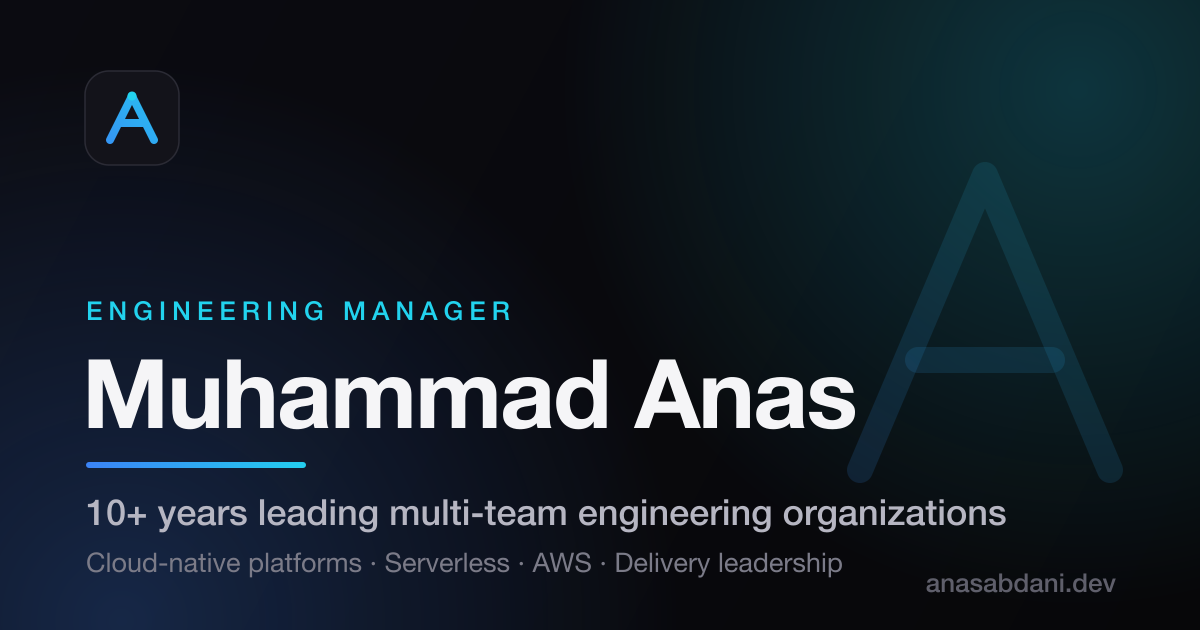
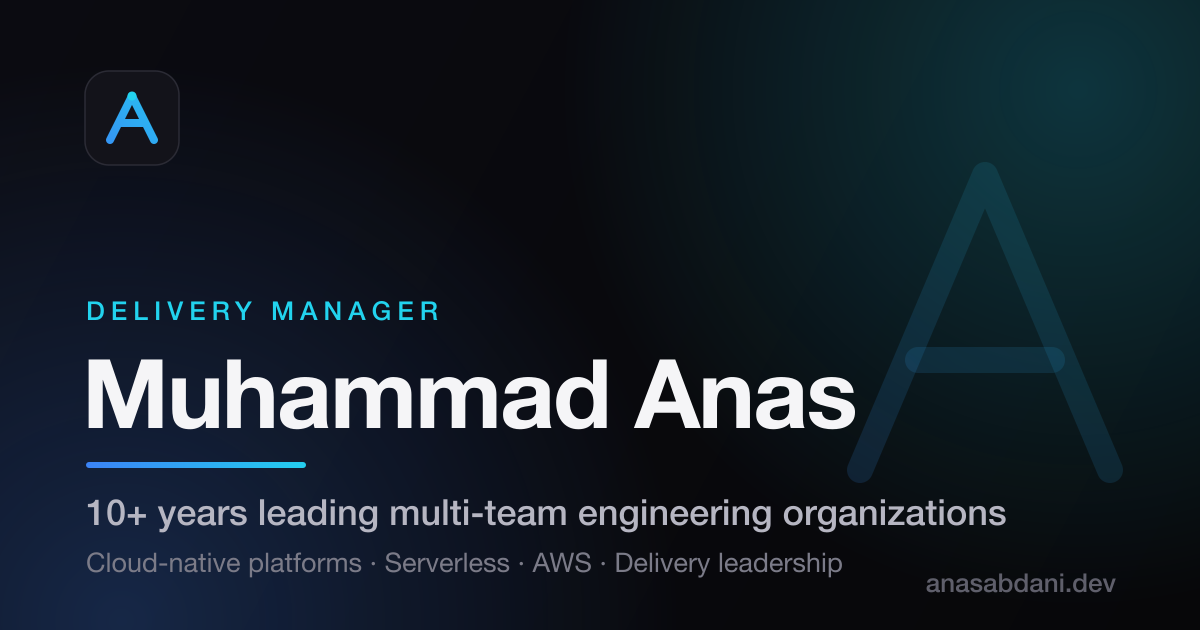
feat: reposition as Delivery Manager and update phone number
Update headline role, meta tags, structured data, hero copy and OG image
to Delivery Manager. Employer job titles in the timeline and case studies
stay as they were. Phone changes to +92 312 8411494.

Changed region(s): [[0.0617, 0.4524, 0.4317, 0.5127]]

diff --git a/index.html b/index.html
@@ -31,10 +31,10 @@
       </style>
     </noscript>
 
-    <title>Muhammad Anas | Engineering Manager and Fractional CTO</title>
+    <title>Muhammad Anas | Delivery Manager and Fractional CTO</title>
     <meta
       name="description"
-      content="Muhammad Anas is an Engineering Manager and Fractional CTO with 10+ years building cloud-native SaaS platforms and leading remote engineering teams."
+      content="Muhammad Anas is a Delivery Manager and Fractional CTO with 10+ years building cloud-native SaaS platforms and leading remote engineering teams."
     />
     <meta name="author" content="Muhammad Anas" />
     <!-- Vercel 307-redirects the apex to www, so www is the canonical host. -->
@@ -43,22 +43,22 @@
     <!-- Open Graph -->
     <meta property="og:type" content="website" />
     <meta property="og:url" content="https://www.anasabdani.dev/" />
-    <meta property="og:title" content="Muhammad Anas | Engineering Manager and Fractional CTO" />
+    <meta property="og:title" content="Muhammad Anas | Delivery Manager and Fractional CTO" />
     <meta
       property="og:description"
-      content="Muhammad Anas is an Engineering Manager and Fractional CTO with 10+ years building cloud-native SaaS platforms and leading remote engineering teams."
+      content="Muhammad Anas is a Delivery Manager and Fractional CTO with 10+ years building cloud-native SaaS platforms and leading remote engineering teams."
     />
     <meta property="og:image" content="https://www.anasabdani.dev/og.png" />
     <meta property="og:image:width" content="1200" />
     <meta property="og:image:height" content="630" />
-    <meta property="og:image:alt" content="Muhammad Anas | Engineering Manager and Fractional CTO" />
+    <meta property="og:image:alt" content="Muhammad Anas | Delivery Manager and Fractional CTO" />
 
     <!-- Twitter -->
     <meta name="twitter:card" content="summary_large_image" />
-    <meta name="twitter:title" content="Muhammad Anas | Engineering Manager and Fractional CTO" />
+    <meta name="twitter:title" content="Muhammad Anas | Delivery Manager and Fractional CTO" />
     <meta
       name="twitter:description"
-      content="Muhammad Anas is an Engineering Manager and Fractional CTO with 10+ years building cloud-native SaaS platforms and leading remote engineering teams."
+      content="Muhammad Anas is a Delivery Manager and Fractional CTO with 10+ years building cloud-native SaaS platforms and leading remote engineering teams."
     />
     <meta name="twitter:image" content="https://www.anasabdani.dev/og.png" />
 
@@ -76,14 +76,14 @@
       {
         "@context": "https://schema.org",
         "@type": "ProfilePage",
-        "dateModified": "2026-09-23T00:00:00+05:00",
+        "dateModified": "2026-10-30T00:00:00+05:00",
         "mainEntity": {
           "@type": "Person",
           "@id": "https://www.anasabdani.dev/#person",
           "name": "Muhammad Anas",
           "alternateName": "Anas Abdani",
-          "jobTitle": "Engineering Manager",
-          "description": "Muhammad Anas is an Engineering Manager and Fractional CTO with 10+ years leading multi-team engineering organizations and shipping scalable, cloud-native SaaS platforms. He leads multiple Agile teams at Flipdish, a restaurant ordering and management SaaS platform, and serves as fractional CTO at Devsy. He is available for fractional engineering leadership, AI-assisted delivery consulting, and advisory calls, working remotely with US, UK and EU time-zone overlap.",
+          "jobTitle": "Delivery Manager",
+          "description": "Muhammad Anas is a Delivery Manager and Fractional CTO with 10+ years leading multi-team engineering organizations and shipping scalable, cloud-native SaaS platforms. He leads multiple Agile teams at Flipdish, a restaurant ordering and management SaaS platform, and serves as fractional CTO at Devsy. He is available for fractional engineering leadership, AI-assisted delivery consulting, and advisory calls, working remotely with US, UK and EU time-zone overlap.",
           "url": "https://www.anasabdani.dev/",
           "image": "https://www.anasabdani.dev/anas.jpg",
           "email": "mailto:anas_abdani@hotmail.com",
@@ -95,9 +95,9 @@
           "hasOccupation": [
             {
               "@type": "Occupation",
-              "name": "Engineering Manager",
-              "description": "Leads multiple Agile software engineering teams at Flipdish, owning delivery, architecture, and incident management for a restaurant ordering and management SaaS platform.",
-              "skills": "Engineering leadership, Agile delivery, incident management, cloud-native architecture on AWS, TypeScript, Node.js, React"
+              "name": "Delivery Manager",
+              "description": "Owns end-to-end delivery across multiple Agile software teams at Flipdish, from sprint planning and release execution to stakeholder alignment and incident management, for a restaurant ordering and management SaaS platform.",
+              "skills": "Delivery management, Agile delivery, release planning, stakeholder management, incident management, cloud-native architecture on AWS, TypeScript, Node.js, React"
             },
             {
               "@type": "Occupation",

diff --git a/src/data/content.ts b/src/data/content.ts
@@ -100,15 +100,15 @@ export interface NavLink {
 export const profile: Profile = {
   name: 'Muhammad Anas',
   shortName: 'Muhammad Anas',
-  role: 'Engineering Manager',
+  role: 'Delivery Manager',
   location: 'Karachi, Pakistan',
   tagline:
-    'Engineering Manager and fractional CTO with 10+ years leading multi-team organizations and shipping scalable, cloud-native platforms.',
+    'Delivery Manager and fractional CTO with 10+ years leading multi-team organizations and shipping scalable, cloud-native platforms.',
   intro:
     'I’m Muhammad Anas. I lead engineering teams that turn ambitious product bets into reliable, production-grade systems. That means owning delivery, architecture, and the people who make it happen.',
   email: 'anas_abdani@hotmail.com',
-  phone: '+966 57 220 1977',
-  phoneHref: '+966572201977',
+  phone: '+92 312 8411494',
+  phoneHref: '+923128411494',
   linkedin: 'https://www.linkedin.com/in/anas-abdani',
   linkedinLabel: 'linkedin.com/in/anas-abdani',
   linkedinRecommendations:
@@ -128,9 +128,9 @@ export const stats: Stat[] = [
 ];
 
 export const about: About = {
-  heading: 'Engineering leadership across delivery, architecture, and people',
+  heading: 'Delivery leadership across teams, architecture, and people',
   paragraphs: [
-    'I’m Muhammad Anas, an Engineering Manager based in Karachi, Pakistan, working remotely with teams across US, UK and EU time zones. Over the last decade I’ve grown from a hands-on engineer into a leader who owns the full delivery lifecycle, from sprint planning and backlog prioritization to architectural direction and production reliability.',
+    'I’m Muhammad Anas, a Delivery Manager based in Karachi, Pakistan, working remotely with teams across US, UK and EU time zones. Over the last decade I’ve grown from a hands-on engineer into a leader who owns the full delivery lifecycle, from sprint planning and backlog prioritization to architectural direction and production reliability.',
     'Today I lead multiple Agile teams at Flipdish, a restaurant ordering and management SaaS platform. I report directly to C-level leadership and keep engineering execution lined up with business priorities. I care a lot about observability, incident management, and building systems that stay reliable as they scale.',
     'My toolkit spans Node.js, TypeScript, React and React Native, serverless and microservices on AWS, and modern CI/CD. The part I spend most of my energy on, though, is creating the conditions where teams ship confidently and grow.',
   ],

diff --git a/src/components/Hero.tsx b/src/components/Hero.tsx
@@ -494,7 +494,7 @@ export default function Hero() {
             style={reduce ? undefined : { y: contentY }}
           >
             <Badge variants={item}>
-              <i /> Open to engineering leadership and fractional CTO work
+              <i /> Open to delivery leadership and fractional CTO work
             </Badge>
 
             <Title variants={item}>
@@ -508,7 +508,7 @@ export default function Hero() {
               ))}{' '}
               <Role>
                 <RotatingText
-                  words={[profile.role, 'Delivery Leader', 'Cloud-Native Architect', 'AI-Driven Builder']}
+                  words={[profile.role, 'Engineering Leader', 'Cloud-Native Architect', 'AI-Driven Builder']}
                 />{' '}
                 and Fractional CTO
               </Role>
@@ -568,7 +568,7 @@ export default function Hero() {
                   <source srcSet="/anas.webp" type="image/webp" />
                   <img
                     src="/anas.jpg"
-                    alt="Muhammad Anas, Engineering Manager and Fractional CTO"
+                    alt="Muhammad Anas, Delivery Manager and Fractional CTO"
                     width={760}
                     height={1014}
                   />
@@ -589,8 +589,8 @@ export default function Hero() {
                 <img src={current.logo} alt={`${current.company} logo`} />
               </PCIcon>
               <div>
-                <b>Engineering Manager</b>
-                <small>Leading multiple Agile teams at Flipdish</small>
+                <b>Delivery Manager</b>
+                <small>Running delivery for multiple Agile teams at Flipdish</small>
               </div>
             </PortraitCard>
           </Portrait>

diff --git a/src/components/Experience.tsx b/src/components/Experience.tsx
@@ -399,8 +399,8 @@ export default function Experience() {
           </Reveal>
           <Reveal i={2}>
             <SectionSub>
-              I started as a hands-on software engineer and now manage multiple Agile teams
-              as an Engineering Manager. Along the way I’ve owned delivery, cloud-native
+              I started as a hands-on software engineer and now run delivery for multiple Agile teams
+              as a Delivery Manager. Along the way I’ve owned releases, cloud-native
               architecture, and reliability at SaaS and product companies, mostly remote.
             </SectionSub>
           </Reveal>

diff --git a/src/pages/CaseStudies.tsx b/src/pages/CaseStudies.tsx
@@ -244,7 +244,7 @@ export default function CaseStudies() {
             </Reveal>
             <Reveal i={2}>
               <Lede>
-                I&rsquo;m Muhammad Anas, an Engineering Manager and fractional
+                I&rsquo;m Muhammad Anas, a Delivery Manager and fractional
                 CTO. These case studies show how I lead engineering teams
                 through delivery, AI adoption, and reliability work at SaaS
                 product companies: what the problem was, how we approached it,

diff --git a/src/components/WorkWithMe.tsx b/src/components/WorkWithMe.tsx
@@ -73,7 +73,7 @@ export default function WorkWithMe() {
           <Reveal i={2}>
             <SectionSub>
               You can book a call with me directly through Calendly. Whether you’re
-              hiring an Engineering Manager, looking for a fractional CTO, or scoping an
+              hiring a Delivery Manager, looking for a fractional CTO, or scoping an
               AI-assisted delivery problem, pick a time that suits you and we’ll talk it
               through.
             </SectionSub>

diff --git a/src/pages/Services.tsx b/src/pages/Services.tsx
@@ -428,7 +428,7 @@ export default function Services() {
             </Reveal>
             <Reveal i={2}>
               <Lede>
-                I&rsquo;m Muhammad Anas, an Engineering Manager who works with
+                I&rsquo;m Muhammad Anas, a Delivery Manager who works with
                 SaaS and food-tech product companies as a fractional CTO,
                 engineering leadership consultant, and advisor. I take part-time
                 ownership of delivery, architecture, AI adoption, and

diff --git a/README.md b/README.md
@@ -1,6 +1,6 @@
 # anasabdani.dev
 
-Personal portfolio for **Muhammad Anas** — Engineering Manager (Flipdish).
+Personal portfolio for **Muhammad Anas** — Delivery Manager (Flipdish).
 Built as a single-page React + TypeScript site with styled-components and motion.
 
 > Live: [anasabdani.dev](https://anasabdani.dev)
